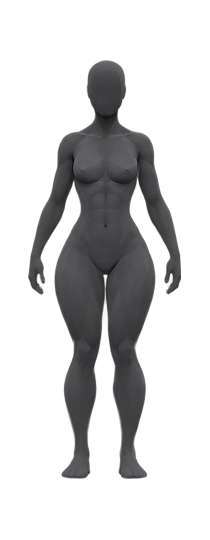
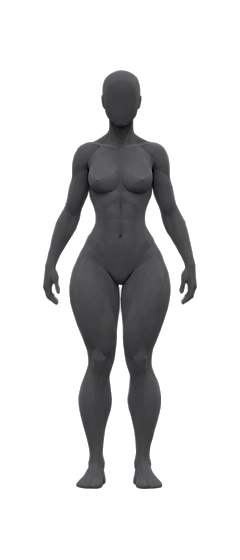
Goals: fix horizontal crop of physique arms (full-figure extraction)
The previous rebuild sliced each figure out of the sprite on a fixed 192px
grid. Wide figures (e.g. powerbuilder, whose body spans 183px) had an arm cut
flat at the cell boundary, leaving a straight vertical edge and a dark seam
from the neighbouring cell.

Re-extract each figure as its own connected component from the sprite's native
alpha (16 cleanly separated components, none touching a sprite edge), so every
arm/hand is captured whole. Align lit->base by FFT phase correlation, paint
only the gold RGB onto the identical base body (alpha byte-identical, so the
hover/active swap still has zero shift). Center each on a uniform 240x560
canvas with >=28px padding on all four sides.

Verified: all 16 files have zero body pixels on any canvas edge, a single
connected component, and healthy margins; confirmed live in-browser at desktop
and mobile widths (summary + picker cards + hover swap), nothing cropped.

styles.css: .phys-fig aspect-ratio 240/560, width 100px to match.

Claude-Session: https://claude.ai/code/session_01BAgqTx4XiGeaj8SSxpQw7d

diff --git a/client/src/styles.css b/client/src/styles.css
@@ -14541,9 +14541,9 @@ button.exd-media {
    the src — one element, fixed box, so the figure never moves on hover/active. */
 .phys-fig {
   display: block;
-  width: 92px;
+  width: 100px;
   margin: 0 auto;
-  aspect-ratio: 210 / 540;
+  aspect-ratio: 240 / 560;
   object-fit: contain;
 }
 .phys-name {
